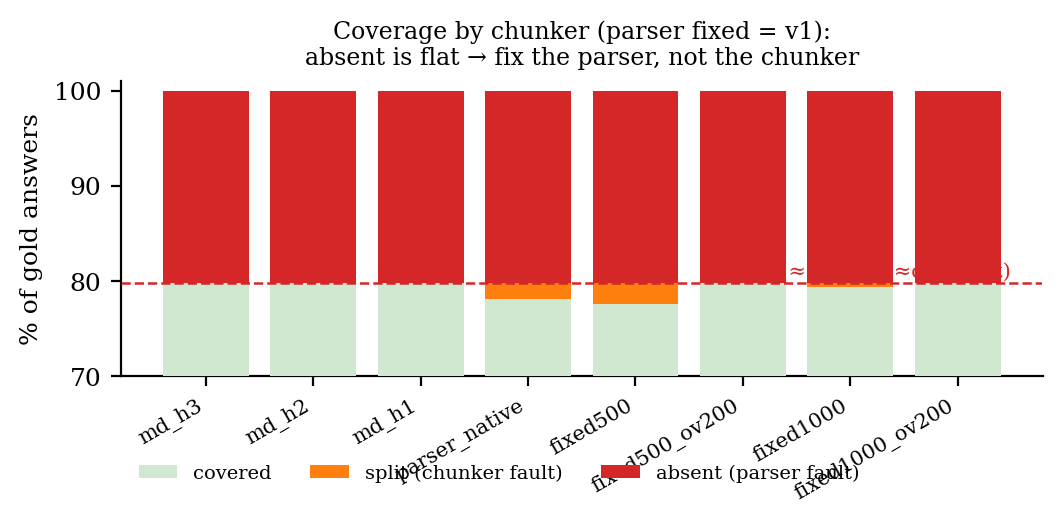
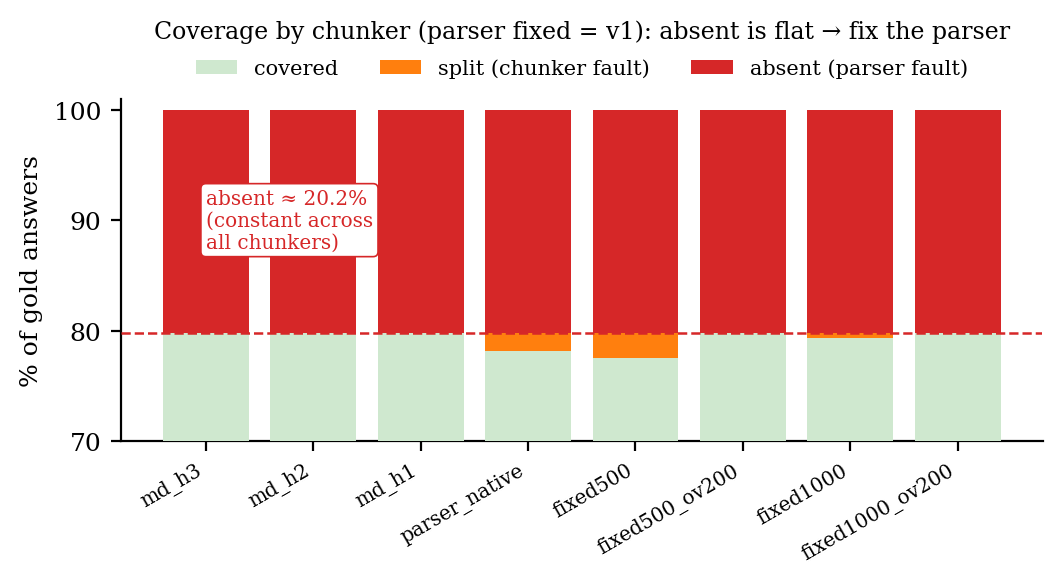
fig: fix coverage chart overlaps (legend->top clear of x-labels, boxed absent annotation)

diff --git a/scripts/figures/make_fig_coverage.py b/scripts/figures/make_fig_coverage.py
@@ -50,20 +50,21 @@ def main() -> None:
     b_abs = ax.bar(x, absent, bottom=bottom2, color="#d62728",
                    label="absent (parser fault)", zorder=3)
 
-    # constant-absent reference line
+    # constant-absent reference line + clean label (white box so it reads over red)
     ax.axhline(100 - mean_absent, color="#d62728", ls="--", lw=0.9, zorder=4)
-    ax.text(len(names) - 0.5, 100 - mean_absent + 0.6,
-            f"absent ≈ {mean_absent:.1f}% (≈constant)", color="#d62728",
-            fontsize=7.5, ha="right")
+    ax.text(0.0, 90.0, f"absent ≈ {mean_absent:.1f}%\n(constant across\nall chunkers)",
+            color="#d62728", fontsize=7.2, ha="left", va="center", zorder=6,
+            bbox=dict(boxstyle="round,pad=0.25", fc="white", ec="#d62728", lw=0.6))
 
     ax.set_xticks(list(x))
-    ax.set_xticklabels(names, rotation=30, ha="right", fontsize=7.5)
+    ax.set_xticklabels(names, rotation=30, ha="right", fontsize=7.2)
     ax.set_ylabel("% of gold answers")
     ax.set_ylim(70, 101)
-    ax.set_title("Coverage by chunker (parser fixed = v1):\nabsent is flat → fix the parser, not the chunker",
-                 fontsize=8.5)
-    ax.legend(fontsize=7, loc="lower left", ncol=3, frameon=False,
-              bbox_to_anchor=(0.0, -0.42))
+    ax.set_title("Coverage by chunker (parser fixed = v1): absent is flat → fix the parser",
+                 fontsize=8.5, pad=22)
+    # legend above the axes (clear of the rotated x-tick labels)
+    ax.legend(fontsize=7.5, loc="lower center", bbox_to_anchor=(0.5, 1.005),
+              ncol=3, frameon=False)
 
     OUT_DIR.mkdir(parents=True, exist_ok=True)
     fig.tight_layout()
